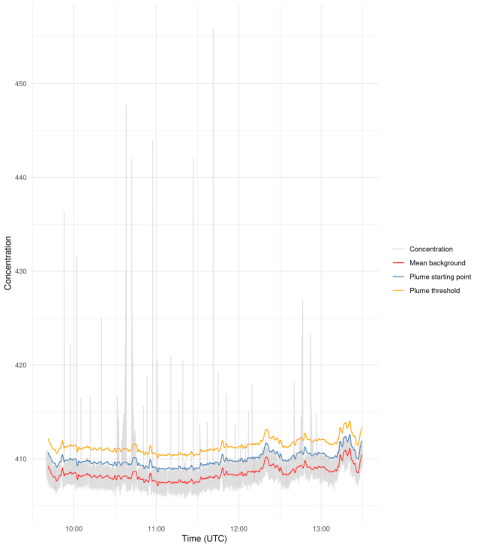
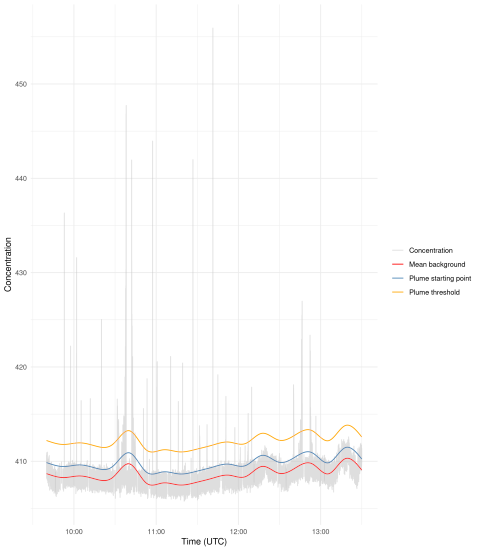
Added the GAM baseline option

diff --git a/README.md b/README.md
@@ -1,6 +1,144 @@
 # ACRUISE Peak ID
 
-Python and R functions for identifying peaks from measurements taken from ACRUISE campaigns.
+R and Python functions for identifying peaks from measurements taken from ACRUISE campaigns.
+
+## Methodology
+
+The workflow of the peak extraction comprises 3 steps:
+
+  1. Identify the background from the concentration time-series
+  2. Remove the background and identify the peaks
+  3. Integrate the area under the peaks to determine the corresponding concentration
+  
+The following sections provide a few additional details.
+
+### Background identification
+
+The observed time-series `y(t)` is assumed to comprise a background concentration $b(t)$ with irregular, sparse plumes $p(t)$:
+
+$$y(t) = b(t) + p(t)$$
+
+The background is assumed to be distributed normally with a time-varying mean but a constant variance, leading to the model
+
+$$y(t) = b(t) + p(t) + \epsilon(t)$$
+
+Where
+
+$$\epsilon \sim N(0, \sigma)$$
+
+The aim of the background identification is to fit a model for `b(t)`, the time-varying mean background. 
+
+## Plume identification
+
+Subtracting the estimated mean background (`b(t)`) from the measured data results in the observations comprising the normally distributed background variance, and the irregular plumes.
+
+$$y'(t) = p(t) + \epsilon(t)$$
+
+The plumes are then identified as any timepoints where $y'(t) \geq k\times\text{sd}(y'(t))$, where $k$ is a user-chosen parameter (`plume_sd_threshold`).
+This threshold will usually be at least 3, so if plumes were exclusively defined by this criteria then they would exclude some points between $p(t)$ and $k$ standard deviations.
+Instead, for each plume identified by the above criteria, it is then expanded to include points up to $j$ standard deviations away from $p(t)$, where $k > j$. 
+The default value for $j$ is 1 and is specified in the code as `plume_sd_starting`.
+
+### Integrating peaks
+
+Currently the only method for integrating the area under the peaks is to use the trapezoidal approximation.
+
+## R package
+
+### Installation
+
+To install the R package, run `remotes::install_github("https://github.com/wacl-york/acruise-peakid", subdir="acruiseR")`
+
+### Usage
+
+Below shows an example of loading some CO2 data for use with `acruiseR` and subsetting it to a period of interest.
+The `UTC_time` column contains the timestamps which are recorded with a sample period of 100ms.
+The default R data structure for timestamps (`POSIXct`, which is also used under the hood by the `lubridate` package) cannot accurately store times at millisecond resolution, so instead it is parsed with the `nanotime` package which is accurate to nanoseconds (the same as `pandas`).
+
+```r
+library(tidyverse)
+library(nanotime)
+library(acruiseR)
+
+df_co2 <- read_csv(
+    "../data/C258_FGGA_FAAM.txt"
+)
+df_co2$time_nano <- as.nanotime(df_co2$UTC_time, format="%d/%m/%Y %H:%M:%E3S", tz="UTC")
+# Restrict to time period of interest if necessary
+study_window <- as.nanoival("+2021-10-04T09:40:00UTC -> 2021-10-04T13:30:00UTC+")
+df_co2 <- df_co2[df_co2$time_nano %in% study_window,]
+```
+
+The first step is to identify the background level, against which plumes will be compared.
+The `identify_background` function takes in the concentration, the background identification method, and several tuning parameters - it is highly likely that the parameter values shown below will need to be tuned for your dataset.
+Run `?identify_background` to see a description of these parameters.
+
+The first method `gam` uses a Generalised Additive Model, which is a non-linear smooth of the data (thus it should account for time-varying backgrounds).
+It only has 1 parameter to tune: `k`.
+
+```r
+bg_gam <- identify_background(df_co2$CO2_ppm, method="gam", k=20)
+```
+
+The other method is the original rolling average method, which has 3 tuning parameters.
+
+```r
+bg_rolling <- identify_background(df_co2$CO2_ppm, method="rolling", bg_sd_window=180, bg_sd_threshold=0.5, bg_mean_window=660)
+```
+
+To determine the appropriateness of the extracted background, `plot_background` plots the concentration time-series with the background highlighted alongside the limit of what is considered a plume, defined as `plume_sd_threshold` standard deviations about the mean background.
+Any plumes will then be determined to start from the point at which they cross `plume_sd_starting` standard deviations above the mean background.
+If they were considered to start from the point at which they cross the `plume_sd_threshold` boundary instead then some plume data would be lost.
+
+```r
+plot_background(df_co2$CO2_ppm, df_co2$time_nano, bg_gam, plume_sd_threshold=3, plume_sd_starting=1)
+```
+
+![the extracted background concentration level highlighted on the concentration time-series](images/background_r.png)
+
+This function returns a `ggplot2` object, so any additional tweaks can be made.
+
+```r
+p <- plot_background(df_co2$CO2_ppm, df_co2$time_nano, bg_gam, plume_sd_threshold=3, plume_sd_starting=1)
+p + theme(legend.position="bottom")
+```
+
+![the same plot as before but with the legend underneath](images/background_r_2.png)
+
+Once both a satisfactory background and suitable values for `plume_sd_threshold` and `plume_sd_starting` have been identified, the plumes can be detected using `detect_plumes` (again use `?peakid.detect_plumes` to see full details for what arguments it takes).
+
+The plumes can be visually inspected using the `plot_plumes` function, adjusting the parameters in the previous step until necessary.
+Again, the returned plot can be modified through usual `ggplot2` functions.
+
+```r
+plumes <- detect_plumes(df_co2$CO2_ppm, bg_gam, df_co2$time_nano, plume_sd_threshold=3, plume_sd_starting=1, plume_buffer=5)
+plot_plumes(df_co2$CO2_ppm, df_co2$time_nano, plumes)
+```
+
+![the extracted plumes highlighted on the concentration time-series](images/plumes_r.png)
+
+Once the plumes have been finalised, the area under the plumes can be calculated using a trapezoidal approach.
+It's crucial to subtract the background from the concentration time-series for this function.
+
+```r
+co2_areas <- integrate_aup_trapz(df_co2$CO2_ppm - bg_gam, df_co2$time_nano, plumes, dx=0.1)
+co2_areas
+```
+
+```
+                           start                           end       area
+1  2021-10-04T09:52:56.600+00:00 2021-10-04T09:52:58.200+00:00  11.614074
+2  2021-10-04T09:57:34.900+00:00 2021-10-04T09:57:35.300+00:00   2.822923
+3  2021-10-04T10:01:56.200+00:00 2021-10-04T10:01:59.500+00:00  17.836451
+4  2021-10-04T10:05:14.900+00:00 2021-10-04T10:05:15.200+00:00   1.526062
+5  2021-10-04T10:11:53.900+00:00 2021-10-04T10:11:57.200+00:00   7.316165
+6  2021-10-04T10:20:06.100+00:00 2021-10-04T10:20:06.700+00:00   6.189715
+7  2021-10-04T10:31:31.800+00:00 2021-10-04T10:31:39.500+00:00  15.163421
+8  2021-10-04T10:31:46.800+00:00 2021-10-04T10:31:50.800+00:00  16.566573
+9  2021-10-04T10:32:26.600+00:00 2021-10-04T10:32:47.200+00:00  46.219828
+10 2021-10-04T10:35:40.900+00:00 2021-10-04T10:35:42.100+00:00   3.651631
+...
+```
 
 ## Python package
 
@@ -66,92 +204,6 @@ It's important to subtract the background from the concentration time-series for
 
 ```python
 co2_areas = peakid.integrate_aup_trapz(df_co2['conc'] - bg, plumes, dx=0.1)
-co2_areas
-```
-
-```
-                    start                     end        area
-0 2021-10-04 09:52:56.700 2021-10-04 09:52:58.200   11.551411
-0 2021-10-04 09:57:34.900 2021-10-04 09:57:35.200    2.463899
-0 2021-10-04 10:01:56.200 2021-10-04 10:01:59.500   18.605635
-0 2021-10-04 10:05:13.700 2021-10-04 10:05:15.200    4.229698
-0 2021-10-04 10:11:53.900 2021-10-04 10:11:57.200    7.469866
-0 2021-10-04 10:20:06.100 2021-10-04 10:20:06.700    6.102518
-0 2021-10-04 10:31:23.300 2021-10-04 10:31:23.500    0.650395
-0 2021-10-04 10:31:31.800 2021-10-04 10:31:50.900   47.789589
-...
-```
-
-## R package
-
-### Installation
-
-To install the R package, run `remotes::install_github("https://github.com/wacl-york/acruise-peakid", subdir="acruiseR")`
-
-### Usage
-
-Below shows an example of loading some CO2 data for use with `acruiseR` and subsetting it to a period of interest.
-The `UTC_time` column contains the timestamps which are recorded with a sample period of 100ms.
-The default R data structure for timestamps (`POSIXct`, which is also used under the hood by the `lubridate` package) cannot accurately store times at millisecond resolution, so instead it is parsed with the `nanotime` package which is accurate to nanoseconds (the same as `pandas`).
-
-```r
-library(tidyverse)
-library(nanotime)
-library(acruiseR)
-
-df_co2 <- read_csv(
-    "../data/C258_FGGA_FAAM.txt"
-)
-df_co2$time_nano <- as.nanotime(df_co2$UTC_time, format="%d/%m/%Y %H:%M:%E3S", tz="UTC")
-# Restrict to time period of interest if necessary
-study_window <- as.nanoival("+2021-10-04T09:40:00UTC -> 2021-10-04T13:30:00UTC+")
-df_co2 <- df_co2[df_co2$time_nano %in% study_window,]
-```
-
-The first step is to identify the background level, against which plumes will be compared.
-The `identify_background` function takes in the concentration and several tuning parameters, here the default values are used but it is highly likely you will need to tune them for your dataset. 
-Run `?identify_background` to see a description of these parameters.
-
-```r
-bg <- identify_background(df_co2$CO2_ppm, bg_sd_window=180, bg_sd_threshold=0.5, bg_mean_window=660)
-```
-
-To determine the appropriateness of the extracted background, `plot_background` plots the concentration time-series with the background highlighted alongside the limit of what is considered a plume, defined as `plume_sd_threshold` standard deviations about the mean background.
-Any plumes will then be determined to start from the point at which they cross `plume_sd_starting` standard deviations above the mean background.
-If they were considered to start from the point at which they cross the `plume_sd_threshold` boundary instead then some plume data would be lost.
-
-```r
-plot_background(df_co2$CO2_ppm, df_co2$time_nano, bg, plume_sd_threshold=4, plume_sd_starting=2)
-```
-
-![the extracted background concentration level highlighted on the concentration time-series](images/background_r.png)
-
-This function returns a `ggplot2` object, so any additional tweaks can be made.
-
-```r
-p <- plot_background(df_co2$CO2_ppm, df_co2$time_nano, bg, plume_sd_threshold=4, plume_sd_starting=2)
-p + theme(legend.position="bottom")
-```
-
-![the same plot as before but with the legend underneath](images/background_r_2.png)
-
-Once both a satisfactory background and suitable values for `plume_sd_threshold` and `plume_sd_starting` have been identified, the plumes can be detected using `detect_plumes` (again use `?peakid.detect_plumes` to see full details for what arguments it takes).
-
-The plumes can be visually inspected using the `plot_plumes` function, adjusting the parameters in the previous step until necessary.
-Again, the returned plot can be modified through usual `ggplot2` functions.
-
-```r
-plumes <- detect_plumes(df_co2$CO2_ppm, bg, df_co2$time_nano, plume_sd_threshold=4, plume_sd_starting=2, plume_buffer=5)
-plot_plumes(df_co2$CO2_ppm, df_co2$time_nano, plumes)
-```
-
-![the extracted plumes highlighted on the concentration time-series](images/plumes_r.png)
-
-Once the plumes have been finalised, the area under the plumes can be calculated using a trapezoidal approach.
-It's crucial to subtract the background from the concentration time-series for this function.
-
-```r
-co2_areas <- integrate_aup_trapz(df_co2$CO2_ppm - bg, df_co2$time_nano, plumes, dx=0.1)
 co2_areas
 ```
 
